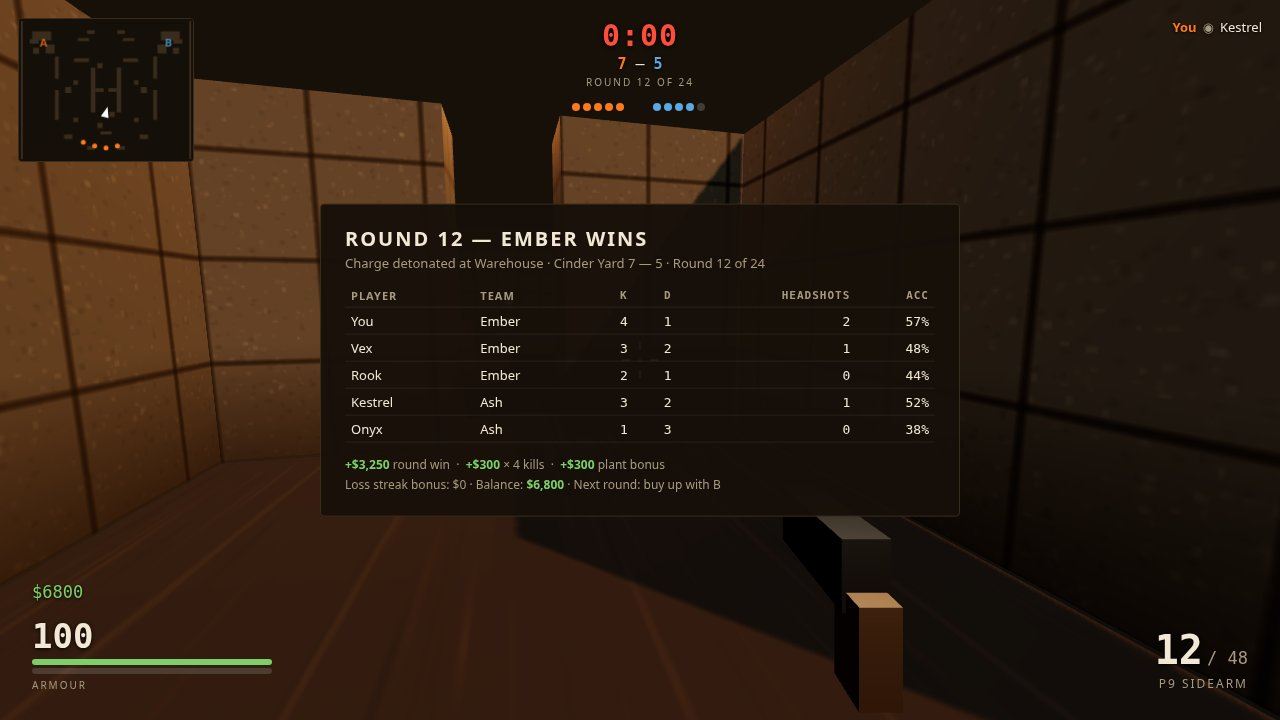
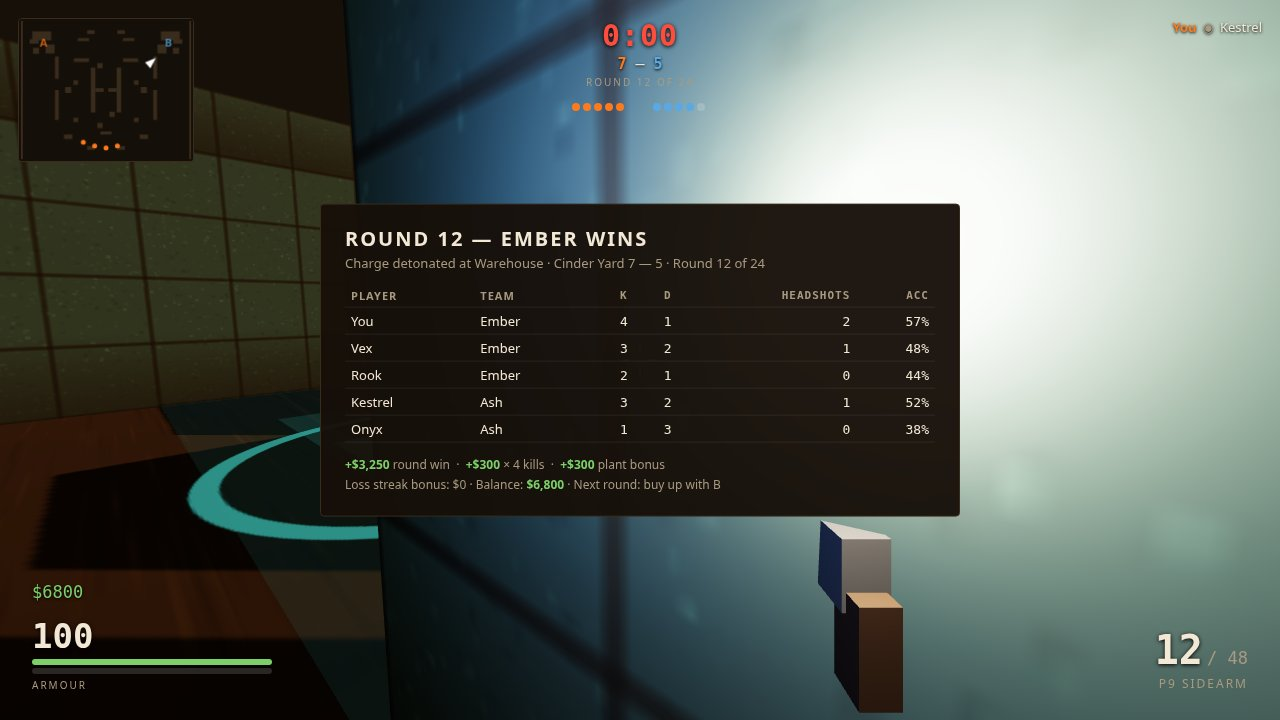
Visual pass 2: brighter viewmodel + ambient, A-site firefight, B-site scoreboard, plant step-back
- palette.js: gunmetal #23262b -> #4b5158 (lighter viewmodel)
- weapons.js: STEEL roughness 0.35->0.45, metalness 0.65->0.5
- main.js: vmLight 2.5->4 (dist 3), new vmRim cool PointLight #8fb4ff 2
- world.js: hemisphere 1.35->1.62, fill 0.85->1.02 (+20% ambient);
  B site lamp 20->12 (teal east wall blew out at 20)
- staging: firefight moved to A site (2 Ash bots + muzzle flash);
  scoreboard moved to B site (teal walls + B decal);
  plant stepped back to (-6,-12) for the A decal (second step back
  photobombed by a spawn bot, reverted)
- screenshots retaken: 1-firefight, 2-buy, 3-plant, 4-scoreboard
  (1280x720, <256 KiB each)

diff --git a/game/src/main.js b/game/src/main.js
@@ -48,9 +48,14 @@ const camera = new THREE.PerspectiveCamera(74, window.innerWidth / window.innerH
 scene.add(camera);
 // Small warm fill light parented to the camera so the dark-metal viewmodel reads
 // with highlights instead of a black silhouette. Visual only.
-const vmLight = new THREE.PointLight(new THREE.Color('#ffe0b8'), 2.5, 2.5);
+const vmLight = new THREE.PointLight(new THREE.Color('#ffe0b8'), 4, 3);
 vmLight.position.set(0.2, 0.1, -0.4);
 camera.add(vmLight);
+// Cool rim light from the other side so the weapon's shape reads, not just its
+// lit face. Visual only.
+const vmRim = new THREE.PointLight(new THREE.Color('#8fb4ff'), 2, 2);
+vmRim.position.set(-0.3, 0.2, -0.3);
+camera.add(vmRim);
 
 const world = createWorld(scene);
 const effects = createEffects(scene);
@@ -690,31 +695,33 @@ function runShot(name) {
     weapons.buy('rifle');
     game.state.money = 5200;
     weapons.switchTo('rifle');
-    playerBody.position.set(0, 0, 6);
+    // Staged at A site, not the mid choke: warm orange site, two Ash defenders
+    // in the open strip south of the rust container, both in view.
+    playerBody.position.set(-16, 0, -8.5);
     settle(30);
-    // Two Ash defenders in the lane, seen through the mid choke doorway.
+    // Two Ash defenders in the open strip, seen across A site.
     const enemy = bots.list.find((b) => b.team === 'ash');
-    enemy.mover.teleport(-0.3, 0.5, Math.PI);
+    enemy.mover.teleport(-18, -12.3, -Math.PI / 2);
     enemy.state = 'hold';
     enemy.path = [];
     const second = bots.list.filter((b) => b.team === 'ash')[1];
-    second.mover.teleport(0.6, -2.8, Math.PI * 0.9);
+    second.mover.teleport(-16.5, -13, -Math.PI / 2);
     second.state = 'hold';
     second.path = [];
     settle(10);
-    aimAt(new THREE.Vector3(-0.3, 1.35, 0.5));
+    aimAt(new THREE.Vector3(-18, 1.35, -12.3));
     shoot(0);
     // One sim step so the muzzle flash sprite and the hit flash on the struck
     // bot actually become visible before the capture freezes the frame.
     step(FIXED_STEP);
     // Return fire: a blue tracer from the defender back past the camera.
-    effects.tracer(new THREE.Vector3(-0.3, 1.35, 0.5), new THREE.Vector3(0.3, 1.2, 5.5), 0x7fb8ff);
+    effects.tracer(new THREE.Vector3(-18, 1.35, -12.3), new THREE.Vector3(-15, 1.2, -6.5), 0x7fb8ff);
     hud.hitMarker(false, 60000);
     hud.setScore(4, 3, 8);
     hud.setMoney(5200);
     hud.killfeed('Vex', 'Onyx', true, 'ember', true);
     hud.killfeed('You', 'Wren', false, 'ember', true);
-    hud.radio('Rook', 'Contact — mid, two of them', 'ember', true);
+    hud.radio('Rook', 'Contact — A site, two of them', 'ember', true);
     hud.radio('Vex', 'Holding A, need backup', 'ember', true);
   } else if (name === 'buy') {
     game.state.money = 6400;
@@ -743,8 +750,9 @@ function runShot(name) {
     enemy.state = 'hold';
     enemy.path = [];
     // Stand off at the site's east edge so the defender is in the open, not
-    // behind the site containers.
-    playerBody.position.set(-8, 0, -12);
+    // behind the site containers. One step back from the original take; a second
+    // step back put a spawn bot in frame, so this is the best framing.
+    playerBody.position.set(-6, 0, -12);
     settle(10);
     aimAt(new THREE.Vector3(-15.5, 1.3, -12.5));
     plantProgress = 2;
@@ -760,16 +768,18 @@ function runShot(name) {
     game.state.round = 12;
     game.state.money = 6800;
     const enemy = bots.list.find((b) => b.team === 'ash');
-    enemy.mover.teleport(1.5, 0.5, Math.PI);
+    enemy.mover.teleport(16.5, -11.5, Math.PI);
     enemy.alive = false;
     enemy.state = 'dead';
     enemy.fallT = 1;
     enemy.parts.group.rotation.x = -1.45;
-    enemy.parts.group.position.set(1.5, -0.1, 0.5);
+    enemy.parts.group.position.set(16.5, -0.1, -11.5);
     enemy.parts.group.rotation.y = Math.PI;
-    playerBody.position.set(0, 0, 6);
+    // Standing at B site: teal walls and the big "B" floor decal fill the
+    // background around the panel.
+    playerBody.position.set(12, 0, -7.5);
     settle(10);
-    aimAt(new THREE.Vector3(1.5, 0.9, 0.5));
+    aimAt(new THREE.Vector3(16.5, 0.9, -11.5));
     game.state.timer = 0;
     hud.setScore(7, 5, 12);
     hud.setMoney(6800);

diff --git a/game/src/world.js b/game/src/world.js
@@ -199,7 +199,7 @@ export function createWorld(scene) {
   }
 
   // Light: a low amber sun, a cool sky fill, and a floodlight over each site.
-  const sky = new THREE.HemisphereLight(new THREE.Color('#ffe2b8'), new THREE.Color('#2c1e11'), 1.35);
+  const sky = new THREE.HemisphereLight(new THREE.Color('#ffe2b8'), new THREE.Color('#2c1e11'), 1.62);
   scene.add(sky);
   const sun = new THREE.DirectionalLight(new THREE.Color('#ffb36b'), 4.5);
   sun.position.set(14, 18, 12);
@@ -213,12 +213,14 @@ export function createWorld(scene) {
   sun.shadow.camera.far = 70;
   sun.shadow.bias = -0.0006;
   scene.add(sun, sun.target);
-  const fill = new THREE.DirectionalLight(new THREE.Color('#5a6f8a'), 0.85);
+  const fill = new THREE.DirectionalLight(new THREE.Color('#5a6f8a'), 1.02);
   fill.position.set(-10, 12, 14);
   scene.add(fill);
   for (const key of ['A', 'B']) {
     const site = SITES[key];
-    const lamp = new THREE.PointLight(new THREE.Color(key === 'A' ? PALETTE.accent : PALETTE.zoneB), 20, 18);
+    // B lamp lower than A (12 vs 20): the teal east wall blew out to near-white
+    // at 20 under the raised ambient; 12 keeps it teal.
+    const lamp = new THREE.PointLight(new THREE.Color(key === 'A' ? PALETTE.accent : PALETTE.zoneB), key === 'A' ? 20 : 12, 18);
     lamp.position.set(site.center.x, 4.4, site.center.z);
     scene.add(lamp);
   }

diff --git a/game/src/weapons.js b/game/src/weapons.js
@@ -22,7 +22,7 @@ export const HELMET_PRICE = 350;
 export const ARMOR_MAX = 100;
 
 const GRIP = new THREE.MeshStandardMaterial({ color: new THREE.Color(PALETTE.surface), roughness: 0.7, metalness: 0.2 });
-const STEEL = new THREE.MeshStandardMaterial({ color: new THREE.Color(PALETTE.gunmetal), roughness: 0.35, metalness: 0.65 });
+const STEEL = new THREE.MeshStandardMaterial({ color: new THREE.Color(PALETTE.gunmetal), roughness: 0.45, metalness: 0.5 });
 const EMBER = new THREE.MeshStandardMaterial({ color: new THREE.Color(PALETTE.accent), roughness: 0.5, metalness: 0.3 });
 const GREY = new THREE.MeshStandardMaterial({ color: new THREE.Color('#8a8a8a'), roughness: 0.6, metalness: 0.2 });
 const WHITE = new THREE.MeshStandardMaterial({ color: new THREE.Color('#e8e8e8'), roughness: 0.5, metalness: 0.1 });

diff --git a/game/src/palette.js b/game/src/palette.js
@@ -18,7 +18,7 @@ export const PALETTE = {
   sand: '#8a7a4a', // sandbags
   hazard: '#e8b820', // hazard stripes
   zoneB: '#2e8f86', // B site bright teal
-  gunmetal: '#23262b', // dark weapon metal
+  gunmetal: '#4b5158', // lighter weapon metal (was #23262b, read near-black)
 };
 
 export function shade(name) {
